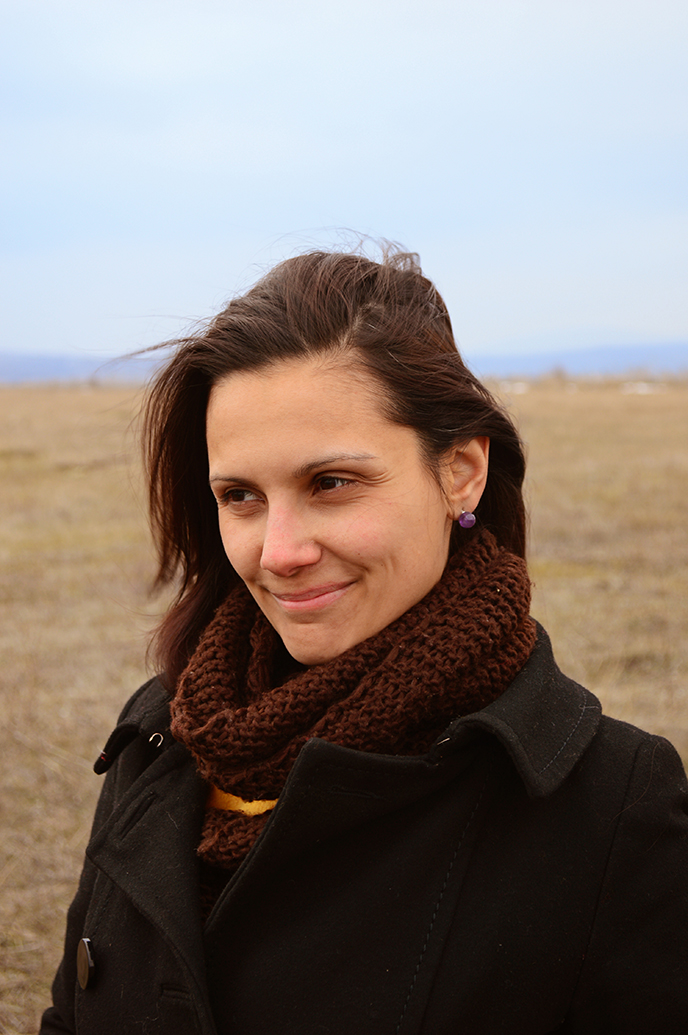
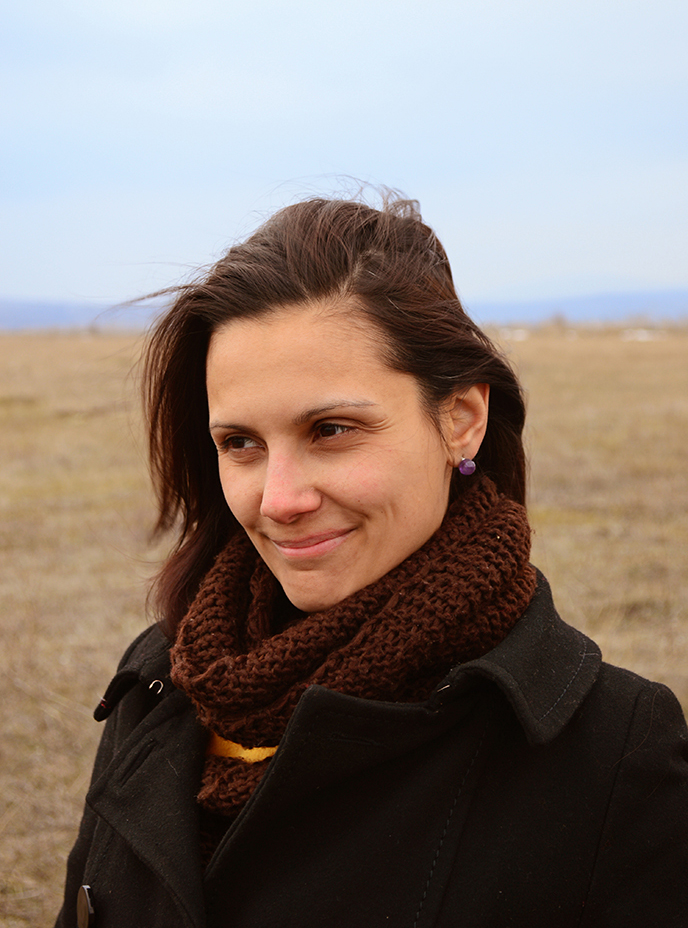
images in about.blade.php are align

diff --git a/public/css/app.css b/public/css/app.css
@@ -1042,7 +1042,7 @@ body{
     color: rgb(109, 110, 113);
 }
 .shrink-pic{
-    width: 197px;
+   padding-bottom: 8px;
 }
 .art-shop-sv{
     width: 218px;
@@ -1062,6 +1062,21 @@ body{
     text-align: left;
     position: relative;
     padding-left: 1px;
+}
+#sofi_pic_alin{
+padding: 0 0 5px 0;
+}
+#a_tasev{
+    padding-bottom: 6px;
+}
+#sofi_lec{
+    padding-bottom: 2px;
+}
+#milan_k_lek{
+    padding-bottom: 20px;
+}
+#elizar_lec{
+    padding-bottom: 5px;
 }
 /*Partners CSS*/
 .firsttxt{

diff --git a/resources/views/about.blade.php b/resources/views/about.blade.php
@@ -72,9 +72,9 @@
                             </div>
                         </div>
                         <div class="col-md-5">
-                            {!! HTML::image('img/images.png') !!}
+                            <img src="{{ asset('/img/team/sofia1.jpg') }}">
                             <br>
-                            <div class="textunderimg">
+                            <div class="textunderimg" id="sofi_pic_alin">
                                 <h4>{{ trans('about.sofia') }}</h4>
                                 <p>
                                     {{ trans('about.about_alex_sofia') }}
@@ -82,7 +82,7 @@
                             </div>
                         </div>
 
-                        <br><br><br>
+
                         <div class="col-md-5">
                             <img src="{{ asset('/img/team/flora_dyulgeryan.jpg') }}">
                                 <br>
@@ -103,6 +103,7 @@
                                 </p>
                             </div>
                         </div>
+
                         <div class="col-md-5">
                             <img src="{{ asset('/img/team/danko1.jpg') }}">
                             <br>
@@ -113,6 +114,7 @@
                                 </p>
                             </div>
                         </div>
+
                         <div class="col-md-5">
                             <img src="{{ asset('/img/team/elizar_milev_koordinator_ngpi1.jpg') }}">
                             <br>
@@ -241,7 +243,7 @@
                             </div>
                         </div>
                         <div class="col-md-5">
-                            {!! HTML::image('img/images.png') !!}
+                            <img src="{{ asset('/img/team/sofia1.jpg') }}">
                             <br>
                             <div class="textunderimg">
                                 <h4>{{ trans('about.sofia') }}</h4>
@@ -250,7 +252,7 @@
                         </div>
 
                         <br>
-                        <div class="col-md-5">
+                        <div class="col-md-5" id="a_tasev">
                             <img src="{{ asset('/img/team/alexander_tasev1.jpg') }}">
                             <br>
                             <div class="textunderimg">
@@ -310,13 +312,20 @@
                     <h2>{{ trans('about.lecturers') }}</h2>
                     <article>
                         <div class="col-md-5">
-                            <img src="{{ asset('/img/team/zdenek_lhotsky.jpg') }}">
+                            <img src="{{ asset('/img/team/alexandra veleva1.jpg') }}">
                             <br>
                             <div class="textunderimg">
-                                <h4>{{ trans('about.zdenek_lhodski') }}</h4>
+                                <h4>{{ trans('about.alex') }}</h4>
                             </div>
                         </div>
-
+                        <div class="col-md-5">
+                            <img src="{{ asset('/img/team/sofia1.jpg') }}">
+                            <br>
+                            <div class="textunderimg" id="sofi_lec">
+                                <h4>{{ trans('about.sofia') }}</h4>
+                            </div>
+                        </div>
+                        <br>
                         <div class="col-md-5">
                             <img src="{{ asset('/img/team/zamecnikova.jpg') }}">
                             <br>
@@ -330,40 +339,33 @@
                             <img src="{{ asset('/img/team/milan_krajicek1.jpg') }}">
                             <br>
                             <div class="textunderimg">
-                                <h4>{{ trans('about.milan_krajek') }}</h4>
+                                <h4 id="milan_k_lek">{{ trans('about.milan_krajek') }}</h4>
                             </div>
                         </div>
+
                         <div class="col-md-5">
-                            <img src="{{ asset('/img/team/alexandra veleva1.jpg') }}">
-                            <br>
-                            <div class="textunderimg">
-                                <h4>{{ trans('about.alex') }}</h4>
-                            </div>
-                        </div>
-                        <div class="col-md-5">
-                            {!! HTML::image('img/images.png') !!}
-                            <br>
-                            <div class="textunderimg">
-                                <h4>{{ trans('about.sofia') }}</h4>
-                            </div>
-                        </div>
-                        <br>
-                        <div class="col-md-5">
-                            <img src="{{ asset('/img/team/denica_todorova.jpg') }}">
+                            <img src="{{ asset('/img/team/denica_todorova2.jpg') }}">
                             <br>
                             <div class="textunderimg">
                                 <h4>{{ trans('about.denica') }}</h4>
                             </div>
                         </div>
                         <br>
-                        <div class="col-md-5">
+                        <div class="col-md-5" id="elizar_lec">
                             <img src="{{ asset('/img/team/elizar_milev_koordinator_ngpi1.jpg') }}">
                             <br>
                             <div class="textunderimg">
                                 <h4>{{ trans('about.elizar') }}</h4>
                             </div>
                         </div>
-
+                        <br>
+                        <div class="col-md-5">
+                            <img src="{{ asset('/img/team/zdenek_lhotsky.jpg') }}">
+                            <br>
+                            <div class="textunderimg">
+                                <h4>{{ trans('about.zdenek_lhodski') }}</h4>
+                            </div>
+                        </div>
                     </article>
                 </div>
             </section>
